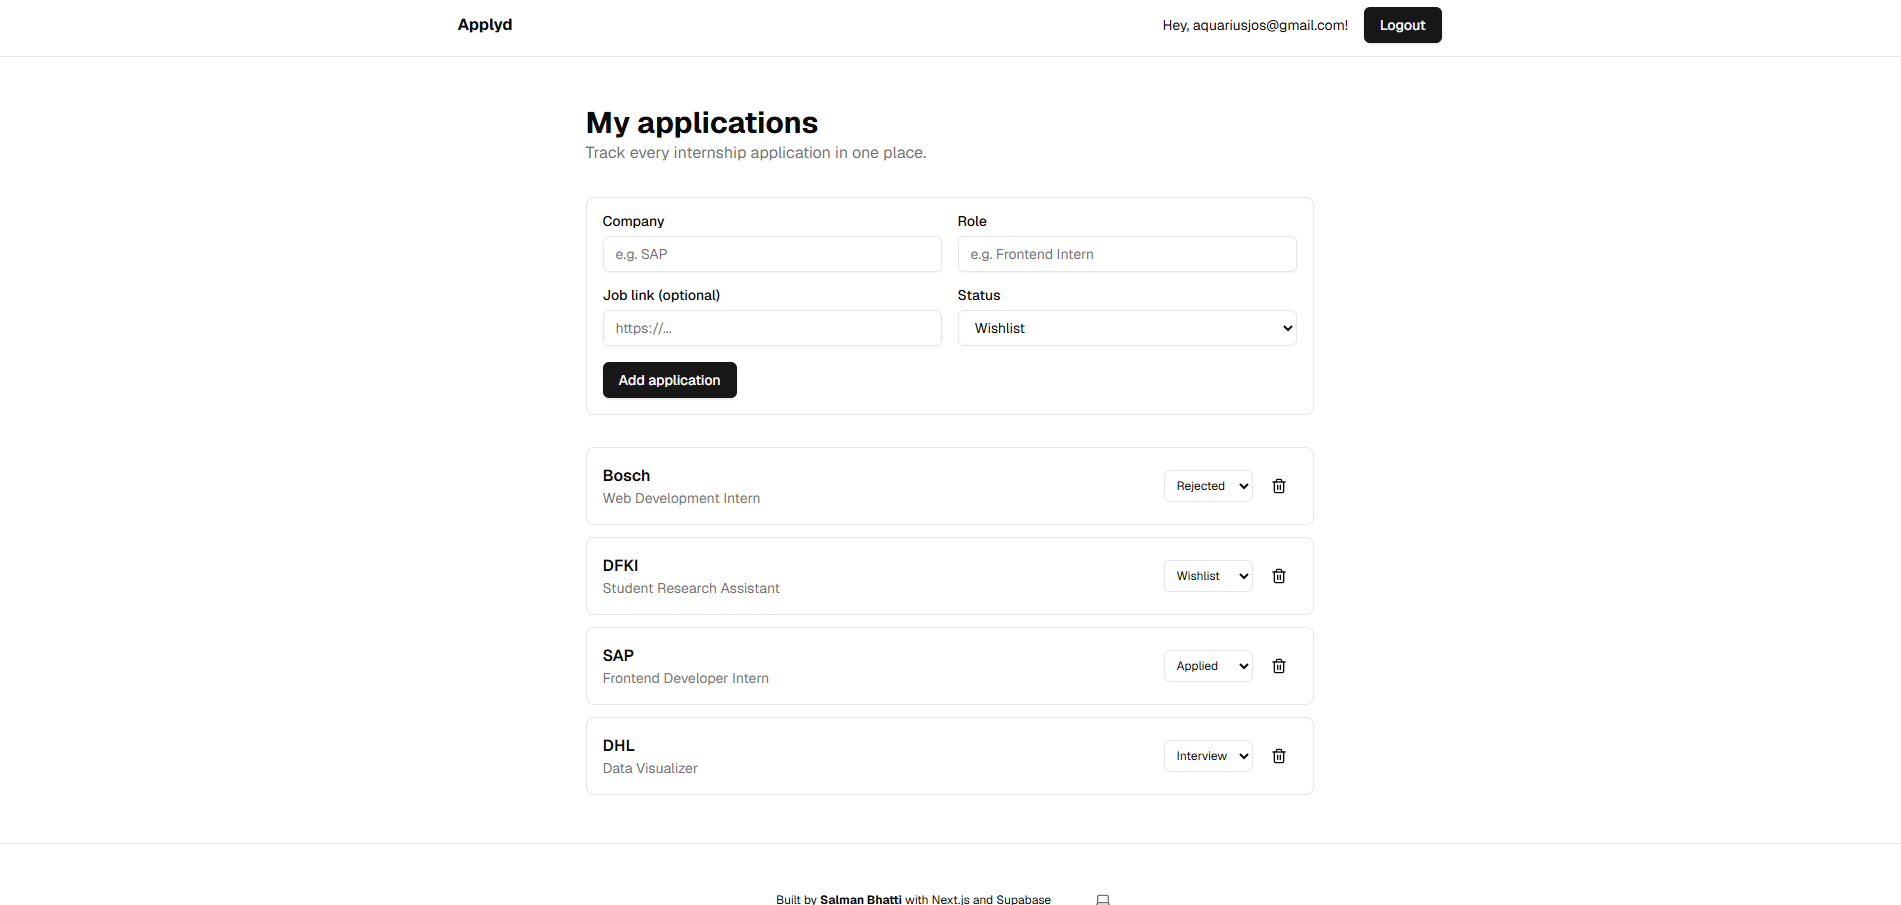
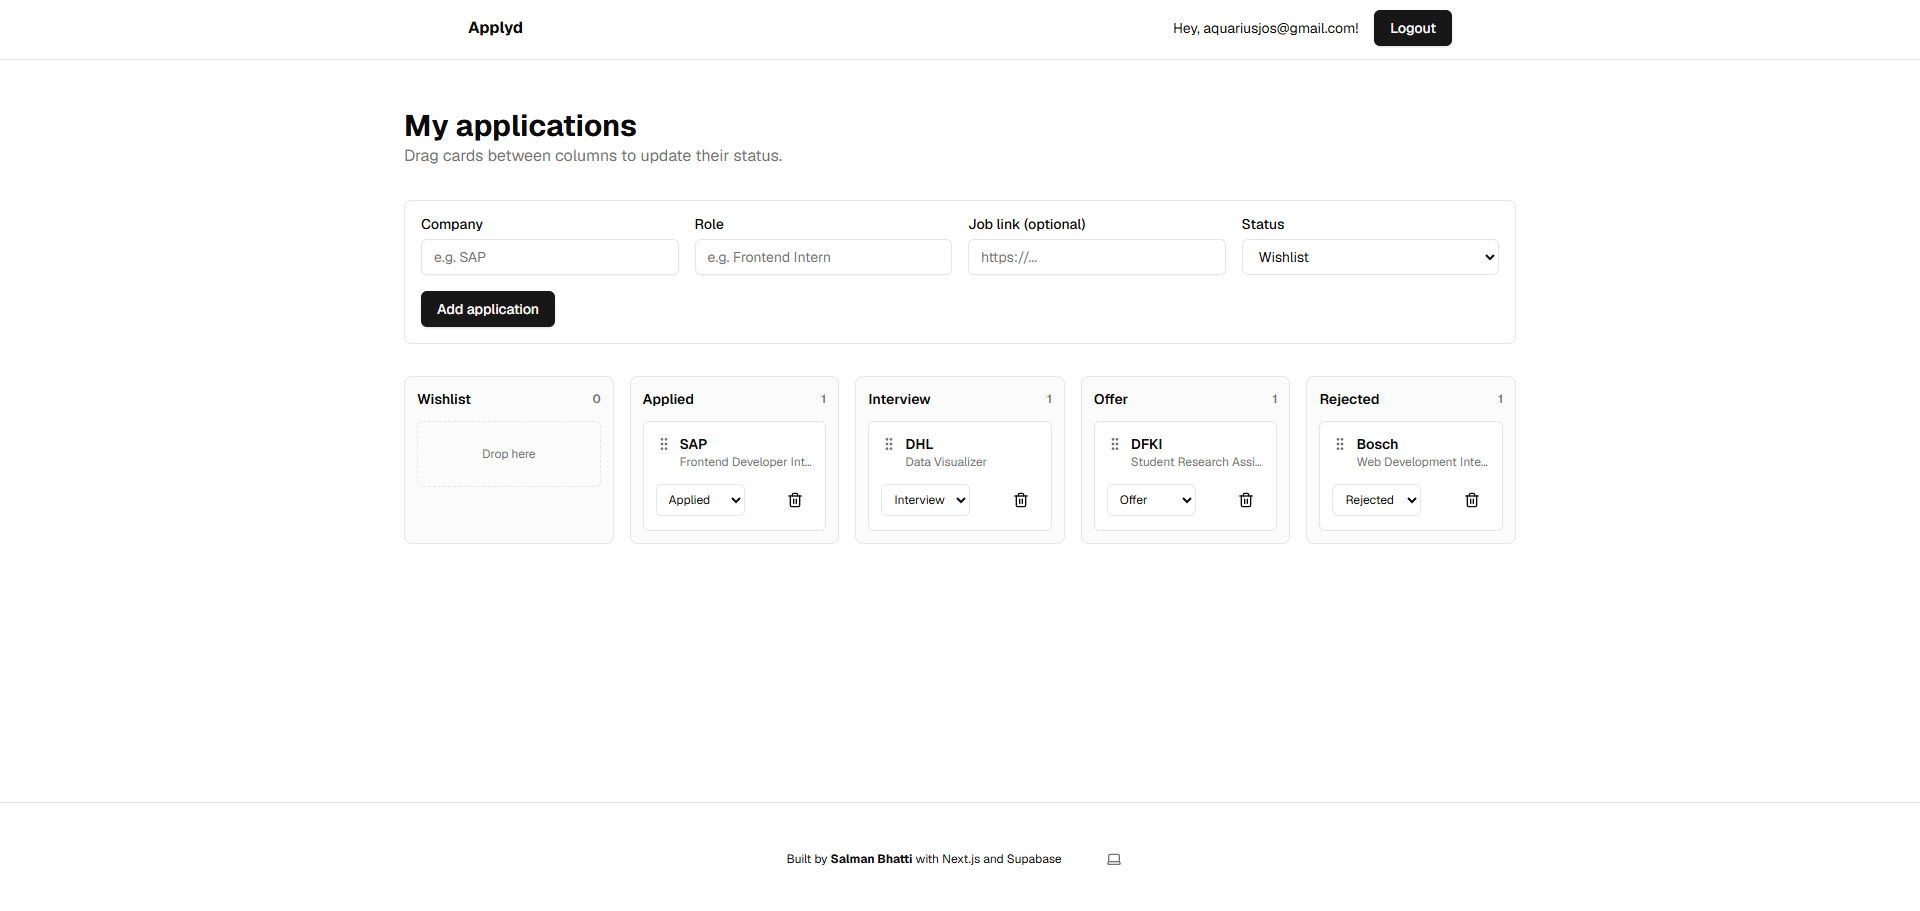
Update README and screenshot for Kanban board

diff --git a/README.md b/README.md
@@ -14,7 +14,8 @@ As a Media Informatics student looking for a mandatory internship, I needed one 
 
 - Sign up and log in with email (Supabase Auth)
 - Add applications with company, role, job link and status
-- Change status (Wishlist → Applied → Interview → Offer / Rejected) or delete applications
+- Kanban board with drag and drop (dnd-kit) to move applications between Wishlist, Applied, Interview, Offer and Rejected
+- Status dropdown on every card as a keyboard-friendly alternative to dragging
 - Each user sees only their own data, enforced in the database with Row Level Security
 - Clear empty, loading and error states
 - Responsive layout with light and dark mode
@@ -57,7 +58,7 @@ As a Media Informatics student looking for a mandatory internship, I needed one 
 
 ## Roadmap
 
-- [ ] Kanban board with drag and drop
+- [x] Kanban board with drag and drop
 - [ ] Search and filter
 - [ ] Statistics (applications per week, response rate)
 - [ ] AI-assisted matching of my CV against job descriptions
